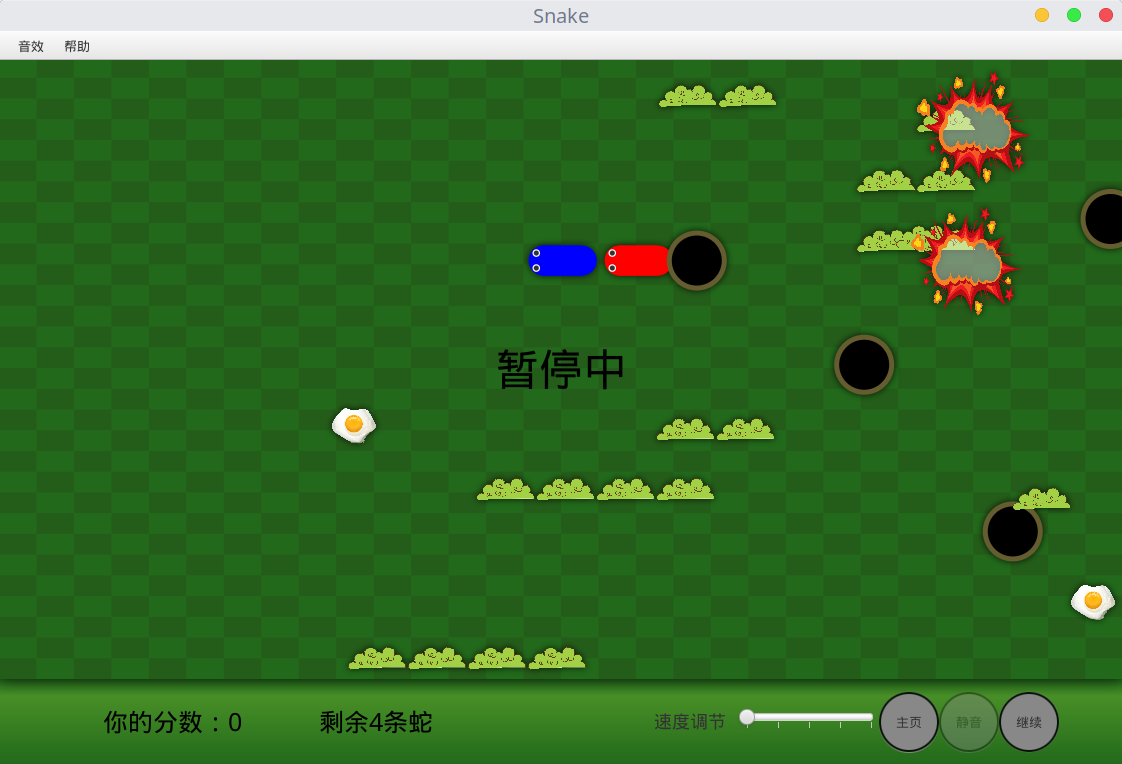
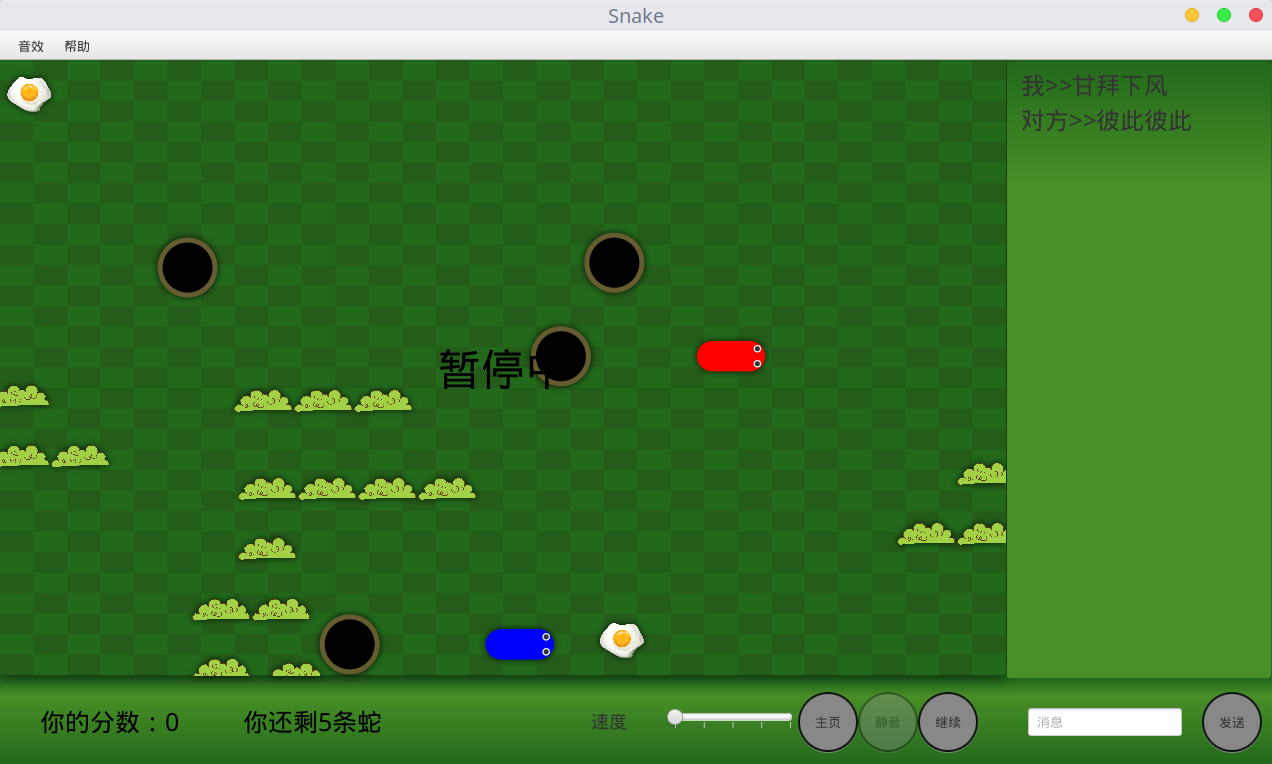
加入傻逼的聊天功能

diff --git a/src/main/Snake.css b/src/main/Snake.css
@@ -2,9 +2,22 @@
     -fx-background-color: linear-gradient(rgb(34, 105, 27) 0%, rgb(72, 143, 39) 20%, rgb(34, 105, 27) 100%);
 }
 
-@font-face {
-    font-family: "JapanFont";
-    src: url("font/JapanFont.ttf")
+
+.text-area {
+    -fx-background-color: transparent;
+}
+
+.text-area .scroll-pane {
+    -fx-background-color: transparent;
+}
+
+.text-area .scroll-pane .viewport{
+    -fx-background-color: transparent;
+}
+
+.text-area .scroll-pane .content{
+    -fx-background-color: linear-gradient(rgb(34, 105, 27), rgb(72, 143, 39) 20%);
+    -fx-effect: dropshadow(three-pass-box, rgba(0,0,0,0.8), 50, 50, 50, 50);
 }
 
 .circle-button {

diff --git a/src/main/SceneController.java b/src/main/SceneController.java
@@ -7,10 +7,10 @@ import javafx.fxml.Initializable;
 import javafx.scene.canvas.Canvas;
 import javafx.scene.canvas.GraphicsContext;
 import javafx.scene.control.*;
+import javafx.scene.input.KeyCode;
 import javafx.scene.input.KeyEvent;
 import javafx.scene.input.MouseButton;
 import javafx.scene.input.MouseEvent;
-import javafx.scene.layout.AnchorPane;
 import javafx.scene.layout.GridPane;
 import javafx.scene.media.Media;
 import javafx.scene.media.MediaPlayer;
@@ -59,6 +59,12 @@ public class SceneController implements Initializable {
     private Text infoLabel;
     @FXML
     private Button silentBtn;
+    @FXML
+    private TextArea chatContentArea;
+    @FXML
+    private Button chatSendBtn;
+    @FXML
+    private TextField chatInputField;
 
     private LogicController logicController;
 
@@ -80,7 +86,7 @@ public class SceneController implements Initializable {
         initMeshBackground();
         initButtonEvents();
         initSliderEvents();
-        gameCanvas.widthProperty().addListener(observable -> initMeshBackground());
+        initTextFieldEvents();
     }
 
     private static final int ROW_NUM = 30;
@@ -134,6 +140,9 @@ public class SceneController implements Initializable {
                         pauseResumeBtn.setDisable(true);
                         speedSlider.setDisable(true);
                         state = GameState.BEFORE_GAME;
+                        chatSendBtn.setDisable(true);
+                        chatContentArea.clear();
+                        chatInputField.setDisable(true);
                         homeBtn.setDisable(true);
                         homeScene.setVisible(true);
                         infoLabel.setVisible(false);
@@ -173,6 +182,19 @@ public class SceneController implements Initializable {
                 }
 
                 startAsSlave();
+            }
+        });
+
+        chatSendBtn.addEventFilter(MouseEvent.MOUSE_CLICKED, (MouseEvent event) -> {
+            if(event.getButton() == MouseButton.PRIMARY) {
+                if(chatInputField.getText().isEmpty()) {
+                    return;
+                }
+
+                if(logicController != null) {
+                    logicController.sendMessage(chatInputField.getText());
+                    chatInputField.clear();
+                }
             }
         });
     }
@@ -224,8 +246,9 @@ public class SceneController implements Initializable {
     private void onKeyPressed(KeyEvent event) {
         switch(state) {
             case GAME_RUNNING:
-                logicController.onKeyPressed(event);
-                event.consume();
+                if(!chatInputField.isFocused()) {//当聊天输入获得焦点时不向逻辑模块发送键盘事件
+                    logicController.onKeyPressed(event);
+                }
                 break;
         }
     }
@@ -238,6 +261,15 @@ public class SceneController implements Initializable {
         };
 
         speedSlider.valueProperty().addListener(sliderValueListener);
+        speedSlider.addEventFilter(KeyEvent.ANY, (KeyEvent event) -> event.consume());//忽略所有键盘事件
+    }
+
+    private void initTextFieldEvents() {
+        chatInputField.addEventFilter(KeyEvent.KEY_PRESSED, (KeyEvent event) -> {
+            if(event.getCode() == KeyCode.ESCAPE) {//当按下ESC时，焦点转移到游戏场景上
+                gameCanvas.requestFocus();
+            }
+        });
     }
 
     public void removeSliderEvents() {
@@ -276,6 +308,18 @@ public class SceneController implements Initializable {
 
     public Slider getSpeedSlider() {
         return speedSlider;
+    }
+
+    public TextArea getChatContentArea() {
+        return chatContentArea;
+    }
+
+    public Button getChatSendBtn() {
+        return chatSendBtn;
+    }
+
+    public TextField getChatInputField() {
+        return chatInputField;
     }
 
     public void setBGM() {

diff --git a/src/logic/MasterLogicController.java b/src/logic/MasterLogicController.java
@@ -399,6 +399,8 @@ public class MasterLogicController implements LogicController {
         state = State.IN_GAME;
         sceneController.getSnakeNumLabel().setVisible(true);
         sceneController.getScoreLabel().setVisible(true);
+        sceneController.getChatSendBtn().setDisable(false);
+        sceneController.getChatInputField().setDisable(false);
         channel.writeAndFlush(getStaticPos().toString());
         start();
     }
@@ -560,6 +562,10 @@ public class MasterLogicController implements LogicController {
             case "keyPressed":
                 onOpponentKeyPressed(msg.getString("key"));
                 break;
+            case "msg":
+                String originalContent = sceneController.getChatContentArea().getText();
+                sceneController.getChatContentArea().setText(originalContent + "对方>>" + msg.getString("content") + "\n");
+                break;
         }
     }
 
@@ -575,5 +581,17 @@ public class MasterLogicController implements LogicController {
         Alert alert = new Alert(Alert.AlertType.INFORMATION);
         alert.setContentText("对方已经断线");
         alert.showAndWait();
+    }
+
+    @Override
+    public void sendMessage(String msg) {
+        if(channel != null) {
+            String originalContent = sceneController.getChatContentArea().getText();
+            sceneController.getChatContentArea().setText(originalContent + "我>>" + msg + "\n");
+            JSONObject info = new JSONObject();
+            info.put("type", "msg");
+            info.put("content", msg);
+            channel.writeAndFlush(info.toString());
+        }
     }
 }

diff --git a/src/logic/SlaveLogicController.java b/src/logic/SlaveLogicController.java
@@ -100,6 +100,23 @@ public class SlaveLogicController implements LogicController {
         gc.clearRect(0, 0, Constants.CANVAS_WIDTH, Constants.CANVAS_HEIGHT);
     }
 
+    @Override
+    public void sendMessage(String msg) {
+        if(channel != null) {
+            String originalContent = sceneController.getChatContentArea().getText();
+            sceneController.getChatContentArea().setText(originalContent + "我>>" + msg + "\n");
+            JSONObject info = new JSONObject();
+            info.put("type", "msg");
+            info.put("content", msg);
+            channel.writeAndFlush(info.toString());
+        }
+    }
+
+    public void onChannelActive() {
+        sceneController.getChatSendBtn().setDisable(false);
+        sceneController.getChatInputField().setDisable(false);
+    }
+
     public void startClient() {
         client = new Client(this, host, port);
         ChannelFuture connectFuture = client.connect();
@@ -174,6 +191,10 @@ public class SlaveLogicController implements LogicController {
                         infoLabel.setText("很遗憾，您输掉了游戏");
                         break;
                 }
+                break;
+            case "msg":
+                String originalContent = sceneController.getChatContentArea().getText();
+                sceneController.getChatContentArea().setText(originalContent + "对方>>" + msg.getString("content") + "\n");
                 break;
         }
     }

diff --git a/src/network/Client.java b/src/network/Client.java
@@ -61,7 +61,10 @@ class ClientHandler extends ChannelInboundHandlerAdapter {
 
     @Override
     public void channelActive(ChannelHandlerContext ctx) {
-        logicController.setChannel(ctx.channel());
+        Platform.runLater(() -> {
+            logicController.setChannel(ctx.channel());
+            logicController.onChannelActive();
+        });
     }
 
     @Override

diff --git a/src/logic/LogicController.java b/src/logic/LogicController.java
@@ -8,4 +8,5 @@ public interface LogicController {
     void setSpeed(int speed);
     void onKeyPressed(KeyEvent event);
     void exit();
+    void sendMessage(String msg);
 }

diff --git a/README.md b/README.md
@@ -2,7 +2,7 @@
 
 ## Introduction
 
-SnakeFX is a [snake](https://en.wikipedia.org/wiki/Snake_(video_game_genre)) game written in java, a two-player game with ugly UI that can be played over network. It is a homework project for summer semester with awful code style. In CS department of Tsinghua University, it is a tradition to ask students to write some stupid games using a language they have just learnt for one week or two in summer semester. But for this stupid homework, I should have been tralleling around Taiwan now. So this is really a sad story.
+SnakeFX is a [snake](https://en.wikipedia.org/wiki/Snake_(video_game_genre)) game written in java, a two-player game with ugly UI that can be played over network, and it supports user-specified BGM and instant messaging. It is a homework project for summer semester with awful code style. In CS department of Tsinghua University, it is a tradition to ask students to write some stupid games using a language they have just learnt for one week or two in summer semester. But for this stupid homework, I should have been tralleling around Taiwan now. So this is really a sad story.
 
 This project uses javafx framework (which is more modern than the swing framework introduced in the textbook) and netty (an event-driven network application framework) to make it easier to code.
 
